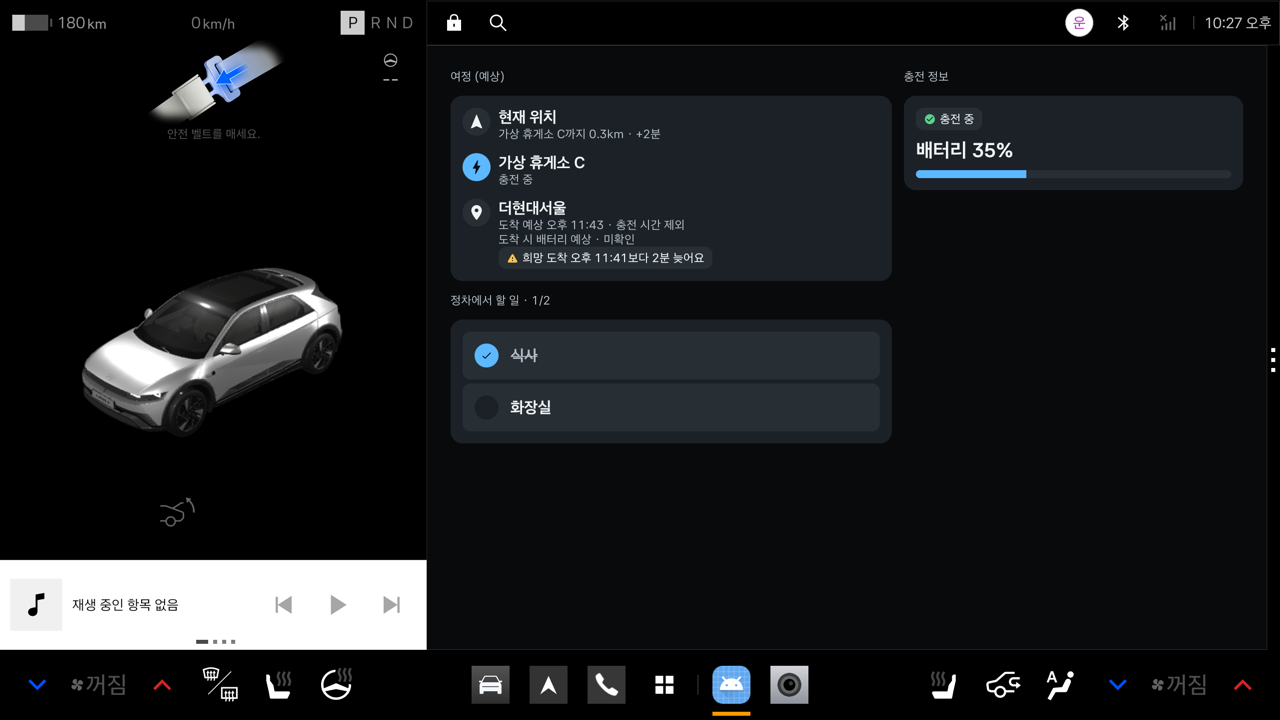
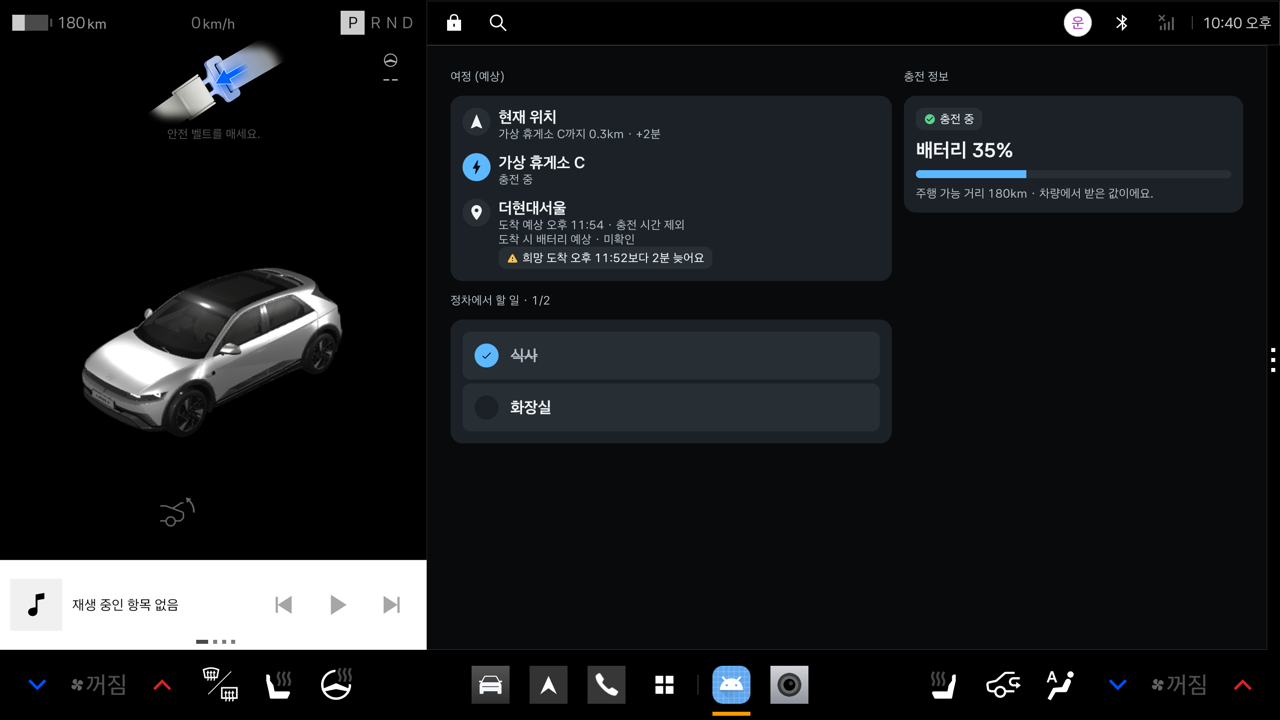
feat(app): declare CAR_DRIVE so the charge card shows driving range (#81)

Changed region(s): [[0.6875, 0.2444, 0.9688, 0.3056], [0.9375, 0.0, 0.9688, 0.0611]]

diff --git a/impl/pleos/src/main/java/ai/familystop/impl/pleos/PleosVehicleEnergySource.kt b/impl/pleos/src/main/java/ai/familystop/impl/pleos/PleosVehicleEnergySource.kt
@@ -20,8 +20,8 @@ internal fun rangeKmOrNull(meters: Float?): Int? =
 /**
  * [VehicleEnergySource] on Pleos Vehicle (ADR-0001, #79): SOC by listener, charge switch
  * (`getEvChargeSwitchState`, no listener in SDK 2.3.2) by polling — both under `CAR_ENERGY`.
- * Range (Odometer) needs `CAR_DRIVE`, which the app does not declare (unapproved permissions fail
- * Pleos review), so it is read only when that permission is granted; otherwise rangeKm stays null.
+ * Range (Odometer) needs `CAR_DRIVE` (declared since #81); it is still read only when granted, so a
+ * build or vehicle without it shows no range instead of crashing (rangeKm stays null).
  * The SDK has no time-to-full API, so none is reported. Results are merged and delivered on main.
  */
 class PleosVehicleEnergySource(context: Context) : VehicleEnergySource {

diff --git a/docs/agents/emulator.md b/docs/agents/emulator.md
@@ -77,7 +77,7 @@ adb shell am start -n ai.familystop.app/ai.familystop.MainActivity
 | 기어 | `PUT /vehicle/gear?gear=Park\|Reverse\|Neutral\|Drive` |
 | 배터리 SOC | `PUT /vehicle/ev-battery?field=soc&value=0..100` |
 | 충전 스위치 | `PUT /vehicle/ev-battery?field=charge_switch&value=true\|false` (앱은 3초마다 `getEvChargeSwitchState`로 읽음) |
-| 주행 가능 거리 | `PUT /vehicle/odometer?remaining_range_m=<m>` (앱이 읽으려면 `CAR_DRIVE` 권한 필요 — 미선언, #79) |
+| 주행 가능 거리 | `PUT /vehicle/odometer?remaining_range_m=<m>` (앱은 `CAR_DRIVE` 권한으로 읽음, #81) |
 | 속도 | `PUT /vehicle/controls?speed_kph=0..240` (`accelerator`, `brake`, `steering`도 같은 엔드포인트) |
 | 상태 | `GET /vehicle/state`, 전체 항목 `GET /vehicle/catalog` |
 
@@ -94,7 +94,7 @@ adb shell am start -n ai.familystop.app/ai.familystop.MainActivity
 3. 앱 창이 검게 보인다: 현재 `MainActivity`는 배경·글자색 지정 없이 `Text`만 그려서 검은 글씨가 검은 창에 묻힌다. 텍스트는 UI 덤프로 확인된다.
 4. `adb shell cmd car_service inject-vhal-event/get-property-value/emulate-driving-state`는 user 빌드라 막힘. `cmd hmg_car_service`(문서의 `driving_regulation`)도 서비스가 없다. 대신 Virtual Console을 쓴다.
 5. Virtual Console에 `curl`로만 PUT하면 `emulator_inactive`다. 하트비트가 필요하다(위 REST 절).
-6. Pleos SDK 호출은 권한이 없으면 앱이 `SecurityException`으로 죽는다: 기어 `GearSelectionListener`는 `pleos.car.permission.CAR_DRIVE`, `NaviHelper.getDestinationInfo`/`getWaypointInfo`/`getRouteStateInfo`는 `pleos.car.permission.NAVI_ROUTE`. 현재 매니페스트는 `NAVI_ROUTE_SEARCH`, `CAR_ENERGY`만 선언한다.
+6. Pleos SDK 호출은 권한이 없으면 앱이 `SecurityException`으로 죽는다: 기어 `GearSelectionListener`는 `pleos.car.permission.CAR_DRIVE`, `NaviHelper.getDestinationInfo`/`getWaypointInfo`/`getRouteStateInfo`는 `pleos.car.permission.NAVI_ROUTE`. 현재 매니페스트는 `NAVI_ROUTE_SEARCH`, `NAVI_ROUTE`, `CAR_ENERGY`, `CAR_DRIVE`(#81, 주행 가능 거리)를 선언한다.
 7. 에뮬레이터 현재 위치는 `adb emu geo fix <lon> <lat>`로 설정한다(서울 예: `127.0276 37.4979`).
 
 ## 6. 실측 결과 (2026-11-08, #31)
